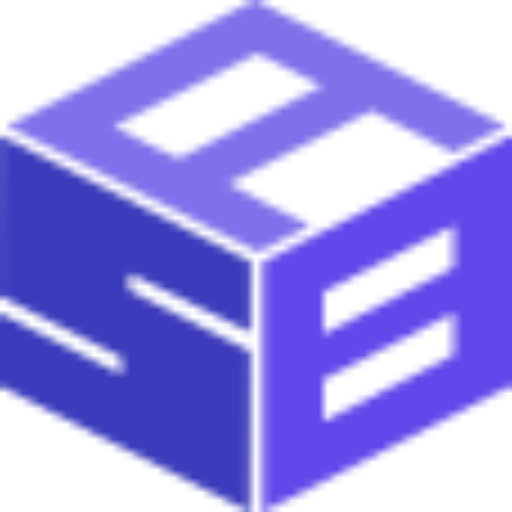
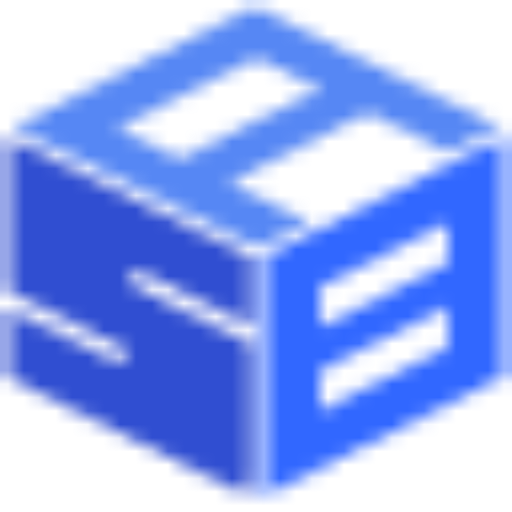
fix: update product name

diff --git a/components/Logo.vue b/components/Logo.vue
@@ -1,65 +1,31 @@
 <template>
-  <svg
-    width="143px"
-    height="48px"
-    viewBox="0 0 143 48"
-    version="1.1"
-    xmlns="http://www.w3.org/2000/svg"
-    xmlns:xlink="http://www.w3.org/1999/xlink"
-  >
-    <title>SafeMatrix</title>
-    <g stroke="none" stroke-width="1" fill="none" fill-rule="evenodd">
-      <g transform="translate(-40.000000, -18.000000)">
-        <g transform="translate(40.000000, 18.000000)">
-          <g>
-            <polygon
-              id="Fill-1"
-              fill="#3B3BBC"
-              points="20.0855082 24.5136792 0.0652971539 12.7209724 0.0235277046 27.7297855 9.71735661 33.4398704 9.71258888 35.1697409 0.018759976 29.4597618 0 36.1920765 20.0203147 47.9846777 20.0619805 32.9758645 10.3676333 27.2655681 10.3700172 26.40058 10.3724011 25.5362263 20.0668518 31.2465227"
-            ></polygon>
-            <path
-              d="M41,12.7054174 L21.1097614,24.5600904 L21.0969093,48 L40.9871479,36.145327 L41,12.7054174 L41,12.7054174 Z M25.8164424,29.4011689 L25.8174789,27.4276635 L36.2860637,21.1883286 L36.2838871,25.1359737 L25.815406,31.3753087 L25.8164424,29.4011689 L25.8164424,29.4011689 Z M25.8119857,37.6051267 L25.8130221,35.6309869 L36.2815033,29.3917576 L36.2794304,33.3399315 L25.8108455,39.5791607 L25.8119857,37.6051267 Z"
-              id="Fill-2"
-              fill="#6248EA"
-            ></path>
-            <path
-              d="M20.4026347,0 L0.590545387,11.8387056 L20.6885948,23.5856252 L24.8596318,21.0932327 L21.7389461,19.2692498 L18.3013101,17.2600029 L29.7713252,10.406188 L36.329647,14.2394178 L40.5006841,11.7469196 L20.4026347,0 L20.4026347,0 Z M11.7321055,13.4204284 L9.14032669,11.905536 L20.6102382,5.05172107 L25.7933811,8.08118869 L14.3234697,14.9350036 L11.7321055,13.4204284 Z"
-              id="Fill-3"
-              fill="#7F71EA"
-            ></path>
-          </g>
-          <g transform="translate(51.000000, 14.000000)" fill="#231815">
-            <path
-              d="M5.57248104,3.49124525 C5.10233424,3.49124525 4.71688594,3.61274996 4.41613616,3.85536996 C4.11498591,4.09828203 3.9645109,4.44809489 3.9645109,4.90490589 C3.9645109,5.36200897 4.1039731,5.72954126 4.38309773,6.00798957 C4.6618219,6.28643788 5.02524458,6.50062888 5.47336576,6.65046523 C5.92108648,6.80049629 6.42046728,6.94332275 6.9711077,7.0789446 C7.52174812,7.21485853 8.06858411,7.37881201 8.61191603,7.57158391 C9.15504772,7.76445318 9.6506241,8.00366559 10.0986452,8.28902642 C10.546466,8.57487406 10.9099888,8.9781373 11.1890133,9.49930297 C11.4677375,10.0206633 11.6073999,10.6452248 11.6073999,11.3734743 C11.6073999,12.6446005 11.0750808,13.7331776 10.0106428,14.6398871 C8.94570424,15.5468887 7.54367362,16 5.80375001,16 C4.06372629,16 2.6612952,15.5931344 1.59685721,14.7790139 C0.532018761,13.9651854 0,12.8084567 0,11.309217 L4.00866225,11.309217 C4.11118148,12.5085892 4.74271598,13.1083241 5.90286529,13.1083241 C6.44599697,13.1083241 6.87189231,12.9691973 7.18035106,12.690749 C7.48870969,12.412398 7.64288901,12.0588855 7.64288901,11.6305035 C7.64288901,11.2020241 7.50312646,10.8523086 7.22440229,10.5809675 C6.94527766,10.3098212 6.58185498,10.0957276 6.13403415,9.93839453 C5.68601308,9.78135358 5.18693263,9.63511954 4.63629221,9.49930297 C4.08565179,9.36377848 3.53851545,9.19612533 2.99548388,8.9959541 C2.45205184,8.79617231 1.95647547,8.55676518 1.50875475,8.27841423 C1.06063356,8.00006328 0.697210887,7.60030498 0.418486718,7.0789446 C0.139362084,6.5578763 0,5.94042204 0,5.2261924 C0,3.82684361 0.535823186,2.70613785 1.60776991,1.86329624 C2.67951639,1.02103879 4.04890906,0.599666665 5.71564755,0.599666665 C7.38198557,0.599666665 8.7292525,0.967491038 9.75734822,1.70275035 C10.7849434,2.43839909 11.321167,3.59834075 11.3651181,5.18335419 L7.26835341,5.18335419 C7.20958506,4.64086679 7.02967582,4.22319433 6.72882592,3.93033681 C6.42767567,3.63786873 6.04212726,3.49124525 5.57248104,3.49124525"
-              id="Fill-1"
-            ></path>
-            <path
-              d="M17.7963579,13.0655735 L20.6377626,13.0655735 C21.1514601,13.0655735 21.5773554,12.9157371 21.9152484,12.6158697 C22.2527409,12.3160023 22.4218376,11.9019322 22.4218376,11.3734645 C22.4218376,10.845289 22.2599493,10.4239169 21.937274,10.109835 C21.6140981,9.79585041 21.1956114,9.63861474 20.6817137,9.63861474 L17.7963579,9.63861474 L17.7963579,13.0655735 Z M17.7963579,3.59833101 L17.7963579,6.85403431 L20.2633271,6.85403431 C20.8062586,6.85403431 21.243367,6.71860717 21.5737512,6.44707139 C21.9042356,6.17602241 22.0693276,5.77236973 22.0693276,5.23689221 C22.0693276,4.7014147 21.9042356,4.29445178 21.5737512,4.01610084 C21.243367,3.73745781 20.8062586,3.59833101 20.2633271,3.59833101 L17.7963579,3.59833101 Z M14.0299775,0.813847935 L20.7477906,0.813847935 C22.3188178,0.813847935 23.5704735,1.18537197 24.5031582,1.92764117 C25.4355426,2.67039716 25.901885,3.61274023 25.901885,4.75505981 C25.901885,6.45447072 24.8811979,7.60370283 22.8403243,8.203535 C23.8827367,8.3462641 24.7124016,8.76763623 25.3291189,9.46716458 C25.9458361,10.1670824 26.2541948,10.9879207 26.2541948,11.9303611 C26.2541948,13.1298308 25.8027697,14.0828834 24.8997195,14.7899084 C23.9965691,15.4967388 22.7375047,15.8500566 21.1223262,15.8500566 L14.0299775,15.8500566 L14.0299775,0.813847935 Z"
-              id="Fill-3"
-            ></path>
-            <polygon
-              id="Fill-5"
-              points="27.2673331 3.59830181 27.2673331 0.813818727 39.4695248 0.813818727 39.4695248 3.59830181 35.2406064 3.59830181 35.2406064 15.8500274 31.4742259 15.8500274 31.4742259 3.59830181"
-            ></polygon>
-            <path
-              d="M45.5261689,10.5381196 L49.1825214,10.5381196 L47.3543952,5.18334446 L45.5261689,10.5381196 Z M50.988622,15.8500566 L50.1295228,13.3227 L44.5790674,13.3227 L43.7200683,15.8500566 L39.7115062,15.8500566 L45.0857567,0.771107094 L49.6669849,0.771107094 L55.0192097,15.8500566 L50.988622,15.8500566 Z"
-              id="Fill-7"
-            ></path>
-            <path
-              d="M64.6663998,3.89817895 L68.4327803,3.89817895 L68.4327803,15.8500371 L64.6663998,15.8500371 L64.6663998,14.0937682 C63.8879945,15.3504852 62.6472515,15.9785517 60.9440706,15.9785517 C59.5344311,15.9785517 58.3926031,15.5218381 57.5190872,14.6077293 C56.6452709,13.6940099 56.2086631,12.4517021 56.2086631,10.8809031 L56.2086631,3.89817895 L59.9529179,3.89817895 L59.9529179,10.3881664 C59.9529179,11.1592541 60.1621612,11.7556786 60.5806479,12.176564 C60.9991346,12.5979361 61.5752046,12.8085248 62.3096588,12.8085248 C63.0437126,12.8085248 63.620183,12.5979361 64.0386698,12.176564 C64.4571565,11.7556786 64.6663998,11.1592541 64.6663998,10.3881664 L64.6663998,3.89817895 Z"
-              id="Fill-9"
-            ></path>
-            <path
-              d="M76.4060335,12.7442091 L77.7495962,12.7442091 L77.7495962,15.8499787 L75.8333675,15.8499787 C74.452962,15.8499787 73.3847196,15.5539083 72.6287404,14.9611834 C71.8722606,14.3687505 71.494321,13.3513432 71.494321,11.9089615 L71.494321,6.93973018 L70.3489889,6.93973018 L70.3489889,3.89821789 L71.494321,3.89821789 L71.494321,0.985220212 L75.2608016,0.985220212 L75.2608016,3.89821789 L77.7275705,3.89821789 L77.7275705,6.93973018 L75.2608016,6.93973018 L75.2608016,11.9089615 C75.2608016,12.4658581 75.6423453,12.7442091 76.4060335,12.7442091"
-              id="Fill-11"
-            ></path>
-            <path
-              d="M83.5422633,0 L83.5422633,5.6545452 C84.3203683,4.39821759 85.5610112,3.76966435 87.2645925,3.76966435 C88.674232,3.76966435 89.8157596,4.22686479 90.6895759,5.14048679 C91.5629917,6.05459558 92,7.29680606 92,8.86741029 L92,15.8500371 L88.2557453,15.8500371 L88.2557453,9.3600496 C88.2557453,8.58896198 88.0465019,7.99302419 87.6280152,7.57165206 C87.2095285,7.15057202 86.633058,6.93969124 85.8990043,6.93969124 C85.1645501,6.93969124 84.5884801,7.15057202 84.1699934,7.57165206 C83.7515066,7.99302419 83.5422633,8.58896198 83.5422633,9.3600496 L83.5422633,15.8500371 L79.7758828,15.8500371 L79.7758828,0 L83.5422633,0 Z"
-              id="Fill-13"
-            ></path>
-          </g>
-        </g>
-      </g>
-    </g>
+  <div class="logo">
+    <svg width="32" height="38" viewBox="0 0 32 38" fill="none" xmlns="http://www.w3.org/2000/svg">
+      <path
+        d="M15.6764 19.0789L0.451999 10.1274L0.420472 21.5199L7.79229 25.8544L7.78835 27.1676L0.416531 22.8331L0.402344 27.9438L15.6268 36.8953L15.6583 25.502L8.28648 21.1675L8.28885 20.5109L8.29042 19.8551L15.6622 24.1896L15.6764 19.0789Z"
+        fill="#304ED1" />
+      <path
+        d="M20.0307 29.0162V27.5176L27.9913 22.7818V25.779L20.0307 30.5148V29.0162ZM20.0347 22.789V21.288L27.9953 16.5522V19.5486L20.0347 24.2844V22.789ZM31.5807 10.1155L16.4556 19.1143L16.4453 36.9066L31.5712 27.9085L31.5807 10.1155Z"
+        fill="#3167FF" />
+      <path
+        d="M9.32443 10.658L7.35399 9.50858L16.0791 4.3056L20.02 6.60528L11.2949 11.8075L9.32443 10.658ZM15.9215 0.471191L0.855469 9.46122L16.1351 18.3742L19.3106 16.4823L16.9374 15.0976L14.3231 13.5726L23.0458 8.37038L28.0326 11.2801L31.2042 9.38818L15.9215 0.471191Z"
+        fill="#5687F4" />
   </svg>
+  <span class="name">Safematrix</span>
+</div>
 </template>
+
+<style scoped>
+.logo {
+  display: flex;
+  align-items: center;
+  justify-content: center;
+  flex-direction: row;
+  margin: 0 auto;
+}
+.name {
+  font-size: 20px;
+  margin-left: 10px;
+  font-weight: bold;
+}
+</style>

diff --git a/content/1.Introdcution/0.index.md b/content/1.Introdcution/0.index.md
@@ -1,8 +1,8 @@
-# SBTAuth 是什么
+# Safematrix 是什么
 
 SBTAuth 用于帮助用户使用传统 Web2.0 登录方式快速登录您的 Dapp。SBTAuth 目前支持邮箱登录、Google 登录、Twitter 登录、Facebook 登录，使用 SBTAuth 登录后自动为用户创建钱包，用于实现 Dapp Web3.0 功能。
 
-## SBTAuth 提供
+## Safematrix 提供
 
 * 快速注册及登录。用户通过传统 Web2.0 登录方式快速注册和登录。
 * Web3.0 Ethereum 钱包。SBTAuth 提供给用户 Ethereum 钱包，可以用于 Etherrum、Polygon、BNB Smart Chain 等基于 EVM 的公链。

diff --git a/content/0.index.md b/content/0.index.md
@@ -1,5 +1,5 @@
 ---
-title: SBTAuth
+title: Safematrix
 navigation: false
 layout: page
 ---
@@ -7,7 +7,7 @@ layout: page
 ::block-hero
 
 #title
-SBTAuth
+Safematrix
 
 #description
 <span style="font-size: 24px; font-weight: 500; line-height: 35px;">A Gateway to WEB3.</br>
@@ -26,7 +26,7 @@ Get Started
 #default
   ::card{icon=icon-park-twotone:connect}
   #title
-  [Connect to SBTAuth](/web)
+  [Connect to Safematrix ](/web)
   #description
   Connect to SBTAuth wallet.
   ::
